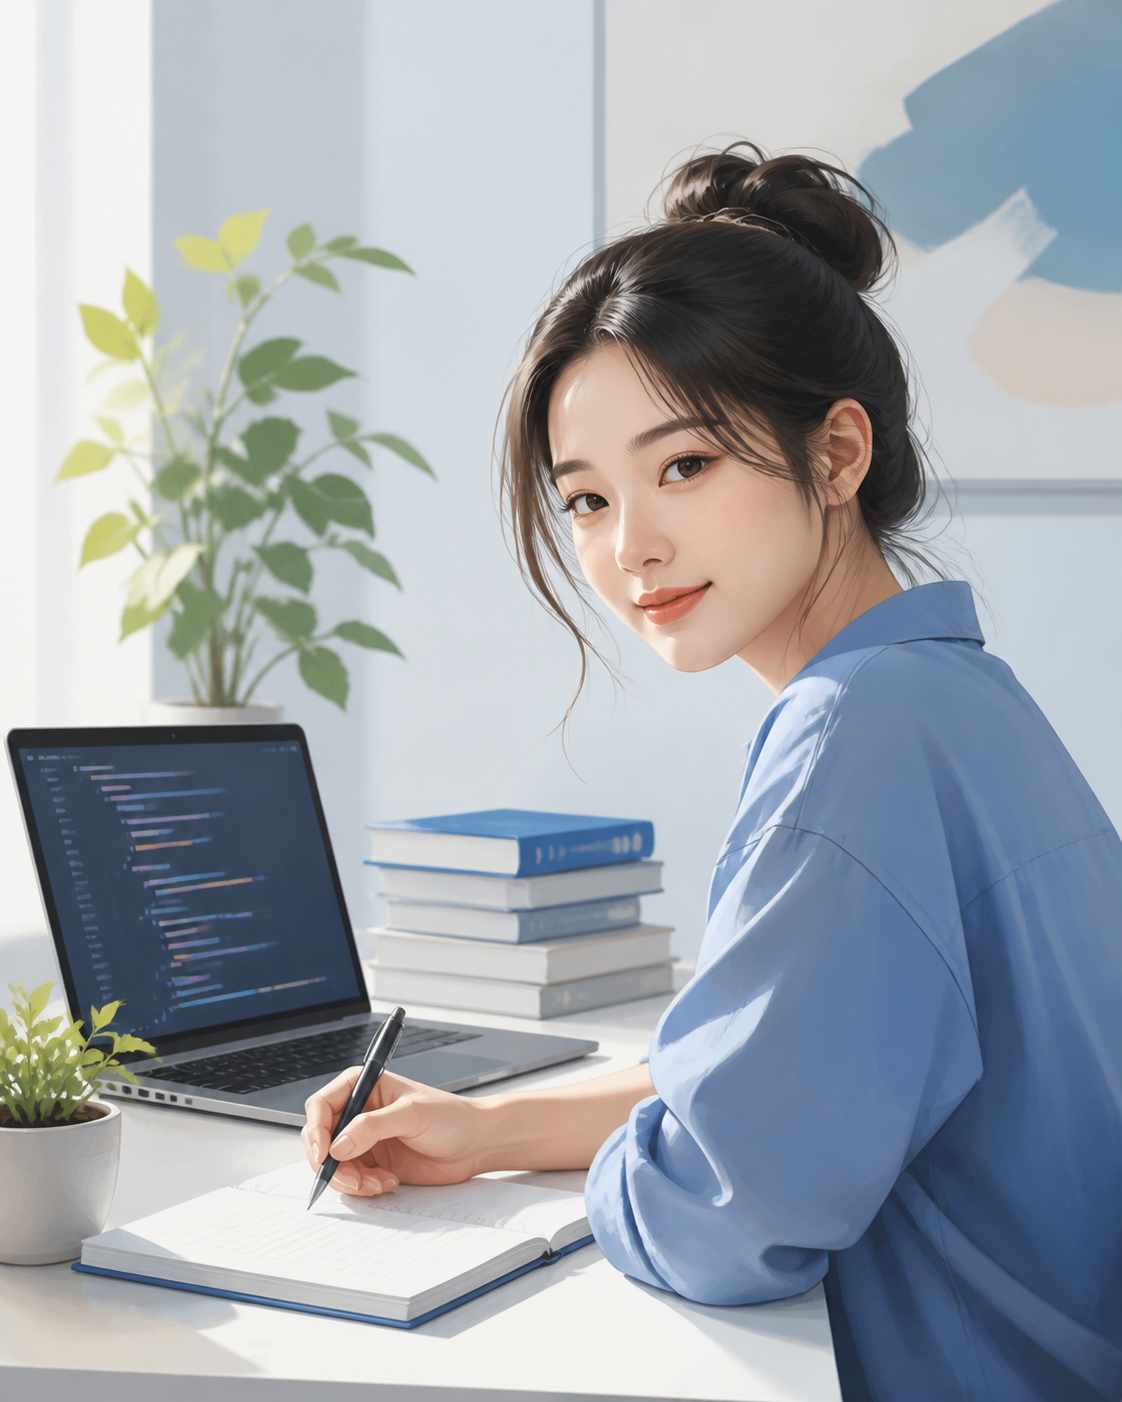
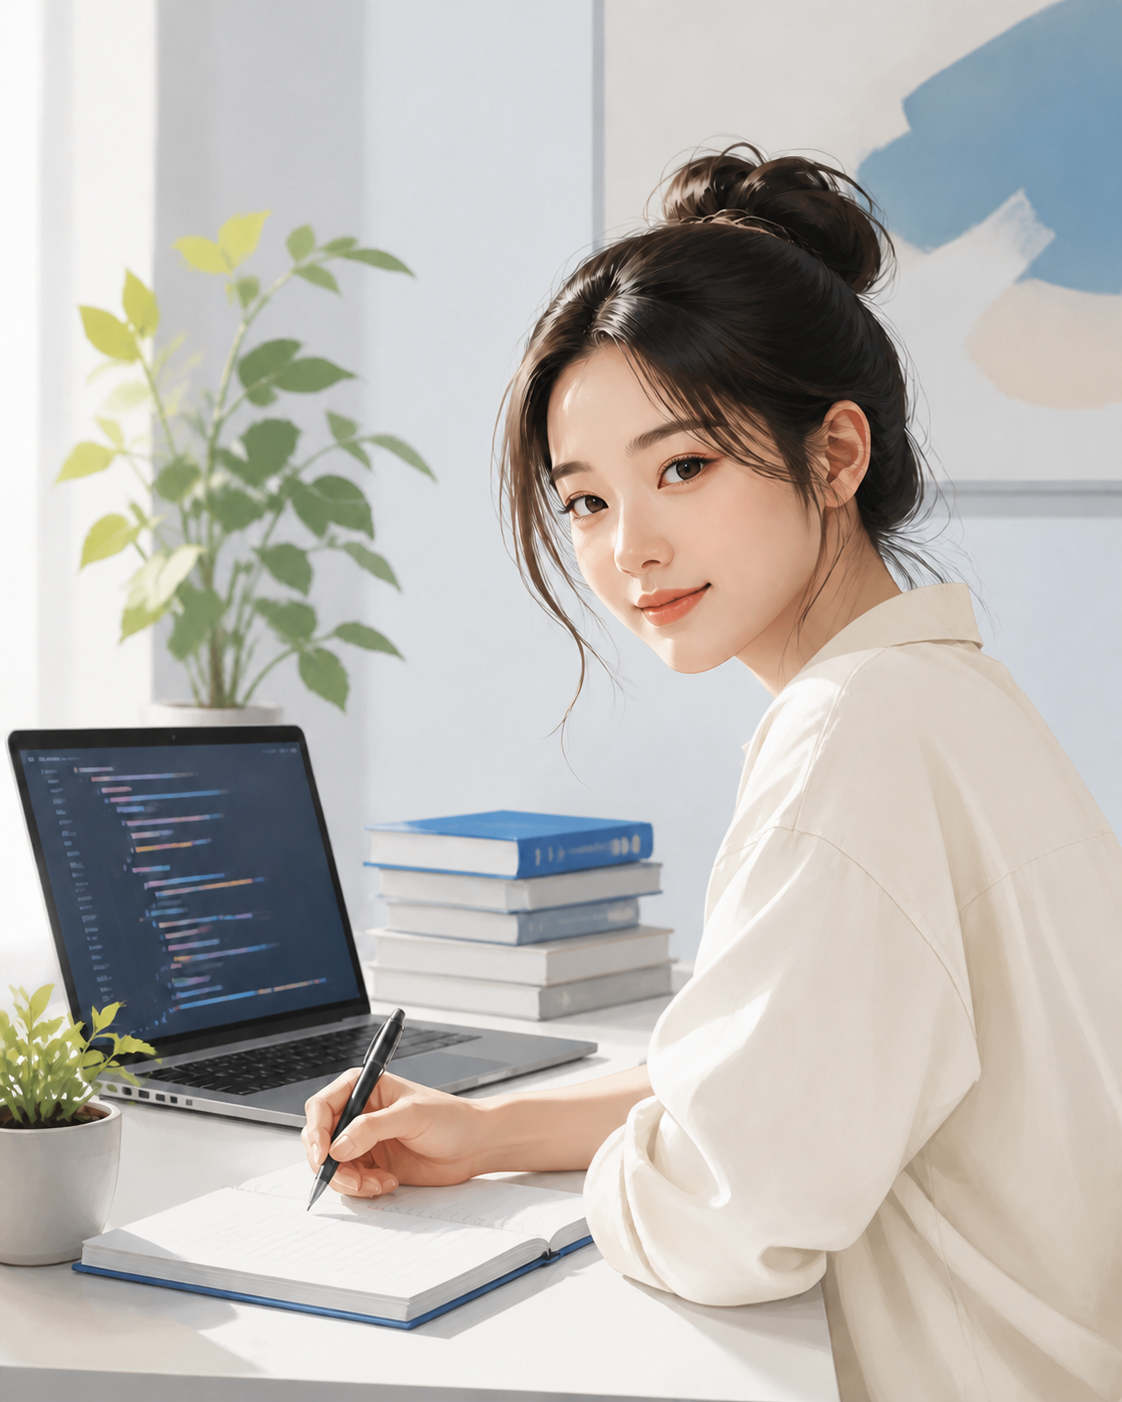
Updates

diff --git a/assets/index-TwuC3prx.css b/assets/index-TwuC3prx.css
@@ -1,0 +1,1 @@
+:root{color:#19172b;font-synthesis:none;text-rendering:optimizelegibility;-webkit-font-smoothing:antialiased;--color-primary:#6c63e8;--color-primary-dark:#5850d8;--color-primary-rgb:108, 99, 232;--color-secondary:#9d97f2;--color-accent:#c9c5ff;--color-heading:#19172b;--color-text:#66627a;--color-muted:#66627a;--color-border:#e5e2f5;--color-background:#f8f7ff;--color-surface:#f8f7ff;--color-white:#fff;--color-on-primary:#fff;--content-width:1200px;--radius-small:8px;--radius-medium:16px;--radius-large:24px;--shadow-card:0 10px 30px #0f172a14;--shadow-header:0 1px 12px #0f172a0d;background-color:#f8f7ff;font-family:Inter,Pretendard,Noto Sans KR,system-ui,-apple-system,BlinkMacSystemFont,Segoe UI,sans-serif}:root[data-theme=dark]{--color-primary:#60a5fa;--color-primary-dark:#93c5fd;--color-primary-rgb:37, 99, 235;--color-secondary:#93c5fd;--color-accent:#172554;--color-heading:#f8fafc;--color-text:#cbd5e1;--color-muted:#94a3b8;--color-border:#334155;--color-background:#1e293b;--color-surface:#111827;--color-white:#1e293b;--color-on-primary:#1e293b;--shadow-card:0 12px 32px #00000047;--shadow-header:0 1px 16px #0000003d}*{box-sizing:border-box}img{max-width:100%}html{scroll-behavior:smooth}body{min-width:320px;min-height:100vh;color:var(--color-text);background-color:var(--color-background);margin:0;font-size:1rem;line-height:1.7;transition:color .25s,background-color .25s}a{color:inherit;text-decoration:none;transition:color .2s}a:hover{color:var(--color-primary)}a:focus-visible,button:focus-visible{outline:3px solid rgba(var(--color-primary-rgb), .3);outline-offset:3px}button,input,textarea{font:inherit}button{border-radius:var(--radius-small);min-height:48px;color:var(--color-on-primary);background-color:var(--color-primary);cursor:pointer;border:0;justify-content:center;align-items:center;padding:12px 24px;font-weight:700;transition:background-color .2s,transform .2s,box-shadow .2s;display:inline-flex}button:hover,.button--primary:hover{background-color:var(--color-primary-dark);box-shadow:0 8px 20px rgba(var(--color-primary-rgb), .2);transform:translateY(-1px)}button:active,.button:active{transform:translateY(0)}.button{border-radius:var(--radius-small);border:1px solid #0000;justify-content:center;align-items:center;min-height:50px;padding:12px 24px;font-weight:700;transition:color .2s,border-color .2s,background-color .2s,box-shadow .2s,transform .2s;display:inline-flex}.button--primary{color:var(--color-on-primary);background-color:var(--color-primary)}.button--primary:hover{color:var(--color-on-primary)}.button--secondary{border-color:var(--color-secondary);color:var(--color-primary);background-color:#0000}.button--secondary:hover{border-color:var(--color-primary);color:var(--color-primary);box-shadow:var(--shadow-card);transform:translateY(-1px)}.button--disabled,.button--disabled:hover{border-color:var(--color-border);color:var(--color-muted);background-color:var(--color-surface);box-shadow:none;cursor:not-allowed;transform:none}.app{min-height:100vh}.container{width:min(calc(100% - 48px), var(--content-width));margin-inline:auto}.header{z-index:10;box-shadow:var(--shadow-header);-webkit-backdrop-filter:blur(12px);backdrop-filter:blur(12px);background-color:#fffffff0;border-bottom:1px solid #e5e2f5cc;position:sticky;top:0}.header__inner{justify-content:space-between;align-items:center;gap:32px;min-height:76px;display:flex}.header__logo{color:var(--color-heading);align-items:center;gap:8px;font-weight:800;transition:color .2s,transform .2s;display:inline-flex}.header__logo:hover{color:var(--color-primary);transform:translateY(-1px)}.header__logo-name{letter-spacing:.06em;font-size:1.05rem;position:relative}.header__logo-name:before{background-color:var(--color-primary);content:"";border-radius:50%;width:6px;height:6px;position:absolute;top:1px;left:-8px}.header__logo-text{letter-spacing:.08em;font-size:1rem}.header__nav{color:var(--color-text);flex-wrap:wrap;gap:clamp(32px,3.5vw,52px);font-size:.95rem;font-weight:600;display:flex}.header__menu-button{display:none}.theme-toggle{border:1px solid var(--color-border);width:44px;min-height:44px;color:var(--color-heading);background-color:var(--color-surface);box-shadow:none;border-radius:50%;flex:none;padding:0}.theme-toggle:hover{border-color:var(--color-primary);color:var(--color-primary);background-color:var(--color-surface);box-shadow:none;transform:rotate(12deg)}.theme-toggle__icon{font-size:1.35rem;line-height:1}.header__link{align-items:center;min-height:44px;padding-block:6px;transition:color .2s,transform .2s;display:inline-flex;position:relative}.header__link:hover{transform:translateY(-1px)}.header__link:after{background-color:var(--color-primary);content:"";transform-origin:100%;height:2px;transition:transform .2s;position:absolute;bottom:0;left:0;right:0;transform:scaleX(0)}.header__link:hover:after,.header__link:focus-visible:after{transform-origin:0;transform:scaleX(1)}section,.section{align-items:center;min-height:440px;padding-block:clamp(80px,10vw,144px);scroll-margin-top:76px;display:flex}.section--alternate{background-color:var(--color-surface)}.section__label{color:var(--color-primary);text-transform:uppercase;letter-spacing:.14em;margin:0 0 12px;font-size:.8rem;font-weight:800}.section__title,.hero__title{color:var(--color-heading);letter-spacing:-.035em;overflow-wrap:break-word;margin:0 0 20px;font-size:clamp(2rem,4vw,3.25rem);line-height:1.2}.section__description{max-width:680px;color:var(--color-text);margin:0;font-size:clamp(1rem,1.5vw,1.125rem)}.hero{background:linear-gradient(135deg, var(--color-surface) 55%, var(--color-accent) 100%);min-height:calc(100vh - 76px)}:root[data-theme=dark] .header{background-color:#0f172af0;border-bottom-color:#334155d9}:root[data-theme=dark] .hero{background:linear-gradient(135deg,#0f172a 55%,#172554 100%)}:root[data-theme=dark] .hero__image-wrap{background-color:#172554}:root[data-theme=dark] .skill-card__track{background-color:#334155}:root[data-theme=dark] .project-card__technologies li{color:#bfdbfe;background-color:#172554}:root[data-theme=dark] .button--disabled,:root[data-theme=dark] .button--disabled:hover{background-color:#273449}:root[data-theme=dark] .button--secondary{border-color:var(--color-border);color:var(--color-heading);background-color:var(--color-white)}:root[data-theme=dark] .contact-form__field input::placeholder,:root[data-theme=dark] .contact-form__field textarea::placeholder{color:#64748b}.hero__inner{grid-template-columns:minmax(0,1.25fr) minmax(280px,.75fr);align-items:center;gap:clamp(48px,8vw,100px);display:grid}.hero__greeting{color:var(--color-primary);margin:0 0 12px;font-size:clamp(1.1rem,2vw,1.35rem);font-weight:700}.hero__title{max-width:900px;margin-bottom:28px;font-size:clamp(2.5rem,5vw,4.5rem)}.hero__title strong{color:var(--color-primary);display:block}.hero__description{max-width:650px;color:var(--color-text);margin:0;font-size:clamp(1rem,1.5vw,1.15rem)}.hero__actions{flex-wrap:wrap;gap:12px;margin-top:36px;display:flex}.hero__image-wrap{aspect-ratio:4/5;border:1px solid var(--color-border);border-radius:var(--radius-large);background-color:var(--color-accent);box-shadow:var(--shadow-card);overflow:hidden}.hero__image{object-fit:cover;width:100%;height:100%;display:block}.about__inner{grid-template-columns:minmax(0,1.1fr) minmax(320px,.9fr);align-items:center;gap:clamp(48px,8vw,100px);display:grid}.about__content{max-width:650px}.about__description{color:var(--color-text);margin:0;font-size:clamp(1rem,1.5vw,1.125rem)}.about__description+.about__description{margin-top:14px}.about__card{position:relative;overflow:hidden}.about__card:before{background:linear-gradient(90deg, var(--color-primary), var(--color-secondary));content:"";height:4px;position:absolute;top:0;left:0;right:0}.about__list{margin:0}.about__item{border-bottom:1px solid var(--color-border);grid-template-columns:100px 1fr;gap:24px;padding-block:18px;display:grid}.about__item:first-child{padding-top:4px}.about__item:last-child{border-bottom:0;padding-bottom:4px}.about__item dt{color:var(--color-muted);font-size:.9rem;font-weight:700}.about__item dd{color:var(--color-heading);margin:0;font-weight:700}.skills__description{margin-bottom:48px}.skills__grid{grid-template-columns:repeat(4,minmax(0,1fr));gap:24px;display:grid}.skill-card{border:1px solid var(--color-border);border-radius:var(--radius-medium);background-color:var(--color-white);padding:28px;transition:transform .2s,border-color .2s,box-shadow .2s;box-shadow:0 6px 20px #0f172a0d}.skill-card:hover{border-color:var(--color-accent);box-shadow:var(--shadow-card);transform:translateY(-3px)}.skill-card__header{justify-content:space-between;align-items:center;gap:16px;margin-bottom:14px;display:flex}.skill-card__title{color:var(--color-heading);margin:0;font-size:1.2rem;line-height:1.3}.skill-card__level{color:var(--color-primary);font-size:.875rem;font-weight:800}.skill-card__description{min-height:78px;color:var(--color-muted);margin:0 0 24px;font-size:.925rem;line-height:1.65}.skill-card__track{background-color:var(--color-border);border-radius:999px;height:8px;overflow:hidden}.skill-card__progress{border-radius:inherit;background:linear-gradient(90deg, var(--color-primary), var(--color-secondary));height:100%;display:block}.skill-card__progress--html{width:90%}.skill-card__progress--css{width:85%}.skill-card__progress--javascript,.skill-card__progress--react{width:80%}.skill-card__progress--vite,.skill-card__progress--figma{width:75%}.skill-card__progress--git,.skill-card__progress--github{width:70%}.projects__description{margin-bottom:48px}.projects__grid{grid-template-columns:repeat(3,minmax(0,1fr));gap:28px;display:grid}.project-card{border:1px solid var(--color-border);border-radius:var(--radius-medium);background-color:var(--color-white);transition:transform .25s,border-color .25s,box-shadow .25s;overflow:hidden;box-shadow:0 6px 20px #0f172a0f}.project-card:hover{border-color:var(--color-accent);box-shadow:var(--shadow-card);transform:translateY(-4px)}.project-card__image-wrap{aspect-ratio:3/2;background-color:var(--color-surface);overflow:hidden}.project-card__image{object-fit:cover;width:100%;height:100%;transition:transform .3s;display:block}.project-card:hover .project-card__image{transform:scale(1.02)}.project-card__content{padding:28px}.project-card__title{color:var(--color-heading);margin:0 0 12px;font-size:1.35rem;line-height:1.3}.project-card__description{min-height:82px;color:var(--color-muted);margin:0 0 20px;font-size:.95rem}.project-card__technologies{flex-wrap:wrap;gap:8px;margin:0 0 28px;padding:0;list-style:none;display:flex}.project-card__technologies li{color:var(--color-primary-dark);background-color:var(--color-accent);border-radius:999px;padding:5px 10px;font-size:.8rem;font-weight:700}.project-card__actions{flex-wrap:wrap;gap:10px;display:flex}.project-card__actions .button{min-height:44px;padding:10px 16px;font-size:.875rem}.experience__description{margin-bottom:56px}.timeline{max-width:820px;margin:0;padding:0;list-style:none;position:relative}.timeline:before{background:linear-gradient(var(--color-primary), var(--color-secondary));content:"";width:2px;position:absolute;top:10px;bottom:10px;left:7px}.timeline__item{padding-left:56px;position:relative}.timeline__item+.timeline__item{margin-top:32px}.timeline__marker{z-index:1;border:4px solid var(--color-white);background-color:var(--color-primary);width:16px;height:16px;box-shadow:0 0 0 2px var(--color-secondary);border-radius:50%;position:absolute;top:30px;left:0}.timeline__card{border:1px solid var(--color-border);border-radius:var(--radius-medium);background-color:var(--color-white);padding:28px 32px;transition:transform .2s,box-shadow .2s;box-shadow:0 6px 20px #0f172a0d}.timeline__card:hover{box-shadow:var(--shadow-card);transform:translate(4px)}.timeline__meta{align-items:center;gap:12px;margin-bottom:10px;display:flex}.timeline__year{color:var(--color-primary);font-size:1.1rem;font-weight:800}.timeline__category{color:var(--color-muted);background-color:var(--color-surface);border-radius:999px;padding:3px 9px;font-size:.75rem;font-weight:700}.timeline__title{color:var(--color-heading);margin:0 0 8px;font-size:1.3rem;line-height:1.4}.timeline__text{color:var(--color-text);margin:0}.contact__inner{grid-template-columns:minmax(0,.9fr) minmax(420px,1.1fr);align-items:start;gap:clamp(48px,8vw,100px);display:grid}.contact__description{margin-bottom:40px}.contact__info{gap:16px;font-style:normal;display:grid}.contact__info-item{border:1px solid var(--color-border);border-radius:var(--radius-small);background-color:var(--color-surface);padding:20px 22px}.contact__info-label,.contact__info-value{display:block}.contact__info-label{color:var(--color-primary);text-transform:uppercase;letter-spacing:.08em;margin-bottom:4px;font-size:.8rem;font-weight:800}.contact__info-value{color:var(--color-heading);overflow-wrap:anywhere;font-weight:600}a.contact__info-value:hover{color:var(--color-primary)}.contact-form{border:1px solid var(--color-border);border-radius:var(--radius-medium);background-color:var(--color-white);box-shadow:var(--shadow-card);padding:36px}.contact-form__field+.contact-form__field{margin-top:22px}.contact-form__field label{color:var(--color-heading);margin-bottom:8px;font-size:.9rem;font-weight:700;display:block}.contact-form__field input,.contact-form__field textarea{border:1px solid var(--color-border);border-radius:var(--radius-small);width:100%;color:var(--color-heading);background-color:var(--color-surface);transition:border-color .2s,box-shadow .2s,background-color .2s;display:block}.contact-form__field input{min-height:50px;padding:12px 14px}.contact-form__field textarea{resize:vertical;min-height:150px;padding:14px;line-height:1.6}.contact-form__field input::placeholder,.contact-form__field textarea::placeholder{color:#9ca3af}.contact-form__field input:focus,.contact-form__field textarea:focus{border-color:var(--color-primary);background-color:var(--color-white);box-shadow:0 0 0 3px rgba(var(--color-primary-rgb), .12);outline:0}.contact-form__button{width:100%;margin-top:28px}.contact-form__button:hover{box-shadow:0 8px 20px rgba(var(--color-primary-rgb), .18)}.card{border:1px solid var(--color-border);border-radius:var(--radius-medium);background-color:var(--color-white);box-shadow:var(--shadow-card);padding:32px}.footer{color:var(--color-accent);background-color:var(--color-heading);padding-block:40px}.footer__inner{justify-content:space-between;align-items:center;gap:24px;display:flex}.footer__text{margin:0;font-size:.9rem}.footer__links{color:var(--color-white);align-items:center;gap:24px;font-size:.9rem;font-weight:700;display:flex}.footer__links span{color:var(--color-secondary)}.footer__links a{color:var(--color-white)}.footer__links a:hover{color:var(--color-secondary)}@media (width<=720px){.container{width:min(calc(100% - 32px), var(--content-width))}.header__inner{flex-flow:wrap;align-items:center;gap:0;min-height:auto;padding-block:18px}.header__menu-button{border:1px solid var(--color-border);border-radius:var(--radius-small);width:44px;min-height:44px;color:var(--color-heading);background-color:var(--color-white);box-shadow:none;flex-direction:column;gap:5px;margin-left:10px;padding:10px;display:inline-flex}.theme-toggle{order:1;margin-left:auto}.header__menu-button{order:2}.header__menu-button:hover{border-color:var(--color-accent);background-color:var(--color-surface);box-shadow:none;transform:none}.header__menu-line{background-color:currentColor;border-radius:999px;width:22px;height:2px;transition:transform .2s,opacity .2s;display:block}.header__menu-button[aria-expanded=true] .header__menu-line:first-child{transform:translateY(7px)rotate(45deg)}.header__menu-button[aria-expanded=true] .header__menu-line:nth-child(2){opacity:0}.header__menu-button[aria-expanded=true] .header__menu-line:last-child{transform:translateY(-7px)rotate(-45deg)}.header__nav{opacity:0;visibility:hidden;pointer-events:none;flex-direction:column;flex-basis:100%;order:3;gap:0;width:100%;max-height:0;padding-top:0;font-size:.875rem;transition:max-height .25s,padding-top .25s,opacity .2s;overflow:hidden}.header__nav--open{opacity:1;visibility:visible;pointer-events:auto;max-height:300px;padding-top:14px}.header__link{border-top:1px solid var(--color-border);width:100%;min-height:48px;padding-inline:4px}.header__link:hover{transform:none}.header__link:after{display:none}section,.section{min-height:360px;padding-block:72px;scroll-margin-top:130px}.hero{min-height:70vh}.hero__inner,.about__inner,.contact__inner{grid-template-columns:1fr;gap:40px}.hero__image-wrap{order:-1;width:min(100%,420px);margin-inline:auto}.hero__actions .button{flex:1}.card{border-radius:12px;padding:24px}.about__item{grid-template-columns:84px 1fr;gap:16px}.skills__grid{grid-template-columns:1fr}.skills__description,.projects__description{margin-bottom:32px}.experience__description{margin-bottom:40px}.projects__grid{grid-template-columns:1fr}.project-card__content{padding:24px}.project-card__description{min-height:auto}.project-card__actions .button{flex:1;min-width:130px}.skill-card__description{min-height:auto}.timeline__item{padding-left:36px}.timeline__card{padding:22px}.timeline__marker{top:26px}.contact-form{padding:24px}.footer__inner{flex-direction:column;align-items:flex-start}}@media (width>=721px) and (width<=1024px){.container{width:min(calc(100% - 64px), var(--content-width))}section,.section{min-height:400px;padding-block:96px}.hero__inner,.about__inner{gap:48px}.contact__inner{grid-template-columns:1fr;gap:48px}.contact__content{max-width:680px}.contact-form{max-width:720px}.skills__grid,.projects__grid{grid-template-columns:repeat(2,minmax(0,1fr))}}@media (width<=420px){.header__nav{justify-content:flex-start}.hero__actions,.project-card__actions{flex-direction:column}.hero__actions .button,.project-card__actions .button{width:100%}.about__item{grid-template-columns:1fr;gap:4px}.timeline__meta{flex-direction:column;align-items:flex-start;gap:6px}}@media (prefers-reduced-motion:reduce){html{scroll-behavior:auto}*,:before,:after{transition-duration:.01ms!important}button,.button,.header__link,.skill-card,.project-card,.project-card__image,.timeline__card{transform:none!important}}

diff --git a/index.html b/index.html
@@ -6,8 +6,8 @@
     <link rel="icon" type="image/png" href="./favicon2.png" />
     <meta name="description" content="개인 포트폴리오 웹사이트" />
     <title>이슬아의 포트폴리오 사이트</title>
-    <script type="module" crossorigin src="/portfolio/assets/index-nbWigJQb.js"></script>
-    <link rel="stylesheet" crossorigin href="/portfolio/assets/index-SRh23nOE.css">
+    <script type="module" crossorigin src="/portfolio/assets/index-Ckbb0cWy.js"></script>
+    <link rel="stylesheet" crossorigin href="/portfolio/assets/index-TwuC3prx.css">
   </head>
   <body>
     <div id="root"></div>
